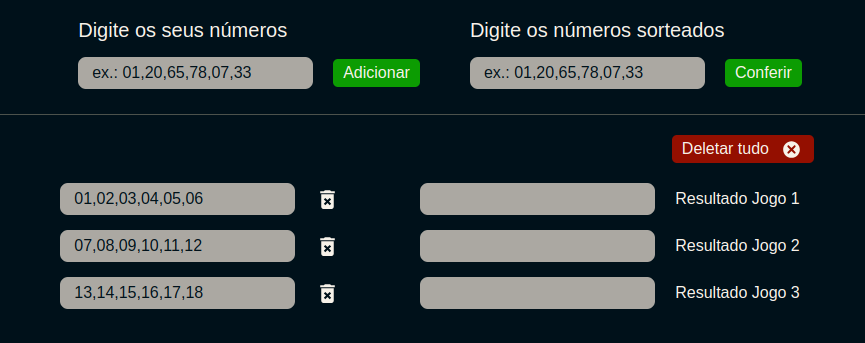
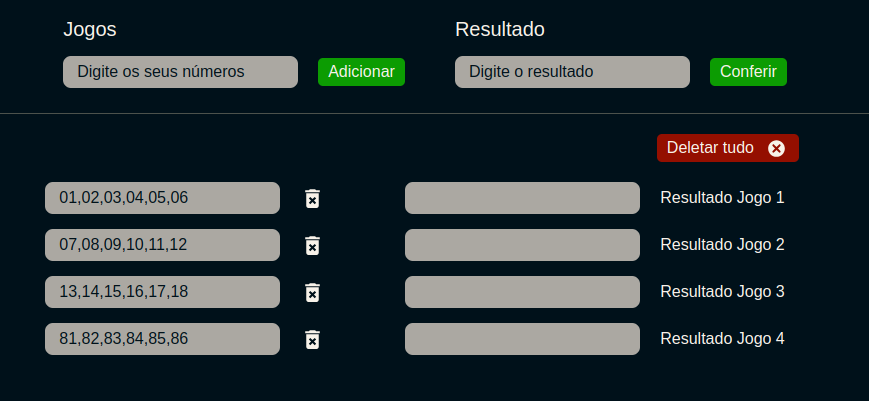
changing input and placeholder texts

Changed region(s): [[0.0, 0.0583, 1.0, 0.2915], [0.4682, 0.3207, 0.9676, 0.9038], [0.0312, 0.4373, 0.4058, 0.9038]]

diff --git a/src/App.tsx b/src/App.tsx
@@ -124,11 +124,11 @@ function App() {
     <Container>
       <Header>
         <UserNumberGame>
-          <h2>Digite os seus números</h2>
+          <h2>Jogos</h2>
           <Input
             id="userNumber"
             hasButton
-            placeholder={'ex.: 01,20,65,78,07,33'}
+            placeholder={'Digite os seus números'}
             onChange={handleUserNumberChange}
             value={userNumber}
             option="Adicionar"
@@ -136,11 +136,11 @@ function App() {
           />
         </UserNumberGame>
         <DrawnNumbers>
-          <h2>Digite os números sorteados</h2>
+          <h2>Resultado</h2>
           <Input
             id="resultNumber"
             hasButton
-            placeholder={'ex.: 01,20,65,78,07,33'}
+            placeholder={'Digite o resultado'}
             onChange={handleDrawnNumbersChange}
             option="Conferir"
             onButtonClick={handleCheckNumbers}
